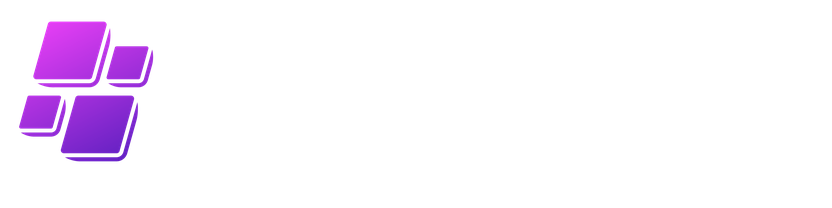
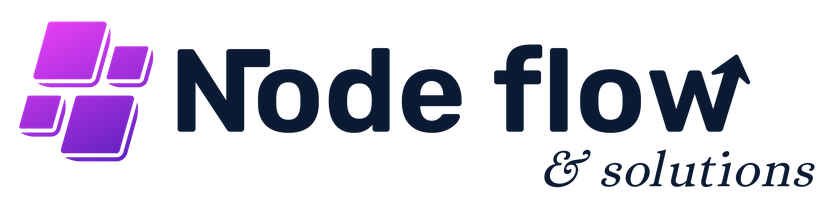
Clients : deux bandeaux défilants identiques (fond blanc / fond bleu marine), tuiles uniformes
Logo Node Flow : texte passé en bleu marine pour être lisible sur tuile blanche.

Claude-Session: https://claude.ai/code/session_01XwajcrZvSTK8Qm7SH7N3dM

Changed region(s): [[0.1875, 0.2308, 0.5625, 0.6635], [0.5938, 0.2019, 0.9062, 0.6635], [0.6562, 0.7212, 1.0, 0.9231]]

diff --git a/index.html b/index.html
@@ -323,12 +323,16 @@ footer{background:#06111f;color:#93a7bd;padding:64px 0 28px}
 /* ---------- CLIENTS MARQUEE ---------- */
 .clients{background:#fff;padding:78px 0;border-block:1px solid var(--line);overflow:hidden}
 .clients .section-head{margin-bottom:40px}
+.clients.navy{background:var(--navy);border-color:var(--navy-2)}
+.clients.navy .section-head h2{color:#fff}
+.clients.navy .section-head p{color:#c3d4e6}
+.clients.navy .eyebrow{background:rgba(87,189,236,.16);color:var(--blue-glow);border-color:rgba(87,189,236,.3)}
+.clients.navy .client{border-color:transparent}
 .marquee{position:relative;-webkit-mask-image:linear-gradient(90deg,transparent,#000 8%,#000 92%,transparent);mask-image:linear-gradient(90deg,transparent,#000 8%,#000 92%,transparent)}
 .marquee-track{display:flex;width:max-content;animation:marquee 38s linear infinite}
 .marquee:hover .marquee-track,.marquee:focus-within .marquee-track{animation-play-state:paused}
 .marquee-group{display:flex;gap:22px;padding-right:22px}
 .client{flex:0 0 auto;width:210px;height:112px;display:flex;align-items:center;justify-content:center;padding:16px 22px;background:#fff;border:1px solid var(--line);border-radius:var(--radius);box-shadow:var(--shadow-sm);transition:transform .3s,box-shadow .3s,border-color .3s}
-.client.dark{background:var(--navy)}
 .client img{max-width:100%;max-height:100%;width:auto;height:auto;object-fit:contain}
 a.client:hover,a.client:focus-visible{transform:translateY(-4px);box-shadow:var(--shadow);border-color:var(--blue-soft)}
 @keyframes marquee{to{transform:translateX(-50%)}}
@@ -340,12 +344,6 @@ a.client:hover,a.client:focus-visible{transform:translateY(-4px);box-shadow:var(
 }
 @media (max-width:720px){.clients{padding:60px 0}.client{width:170px;height:96px}}
 
-/* ---------- CLIENTS BANDE BLEUE (variante fixe) ---------- */
-.clients-band{background:linear-gradient(135deg,var(--blue) 0%,var(--blue-2) 100%);padding:56px 0;color:#fff}
-.clients-band h3{font-size:1.15rem;font-weight:700;text-align:center;margin-bottom:28px;letter-spacing:.02em}
-.clients-band .band-row{display:flex;flex-wrap:wrap;justify-content:center;gap:14px}
-.clients-band .client{width:174px;height:100px;border-color:transparent;box-shadow:0 14px 30px -14px rgba(10,26,51,.45)}
-@media (max-width:720px){.clients-band{padding:44px 0}.clients-band .client{width:calc(50% - 9px);height:92px}}
 
 /* ---------- REVEAL ---------- */
 .reveal{opacity:0;transform:translateY(30px);transition:opacity .7s cubic-bezier(.2,.7,.2,1),transform .7s cubic-bezier(.2,.7,.2,1)}
@@ -570,11 +568,15 @@ height="0" width="0" style="display:none;visibility:hidden"></iframe></noscript>
   <div class="marquee reveal" aria-label="Logos de nos clients"><div class="marquee-track" id="clientTrack"></div></div>
 </section>
 
-<section class="clients-band" id="clients-band">
+<section class="clients navy" id="clients-2">
   <div class="container">
-    <h3 class="reveal">Ils nous font confiance</h3>
-    <div class="band-row reveal" id="clientBand"></div>
+    <div class="section-head reveal">
+      <span class="eyebrow">Références</span>
+      <h2>Ils nous font confiance.</h2>
+      <p>Des professionnels de l'immobilier, du sport et de la rénovation nous confient l'entretien de leurs locaux.</p>
+    </div>
   </div>
+  <div class="marquee reveal" aria-label="Logos de nos clients"><div class="marquee-track" id="clientTrack2"></div></div>
 </section>
 
 <!-- ============ CONTACT ============ -->
@@ -729,7 +731,7 @@ const clients = [
   {n:"Immobilière de la Hardt",img:"assets/clients/immobiliere-de-la-hardt.png",url:"https://www.immo-hardt.com/"},
   {n:"Altura Immobilier",img:"assets/clients/altura-immobilier.png",url:"https://www.alturaimmobilier.fr/"},
   {n:"EG-PRO",img:"assets/clients/eg-pro.png"},
-  {n:"Node Flow & Solutions",img:"assets/clients/node-flow.png",dark:true}
+  {n:"Node Flow & Solutions",img:"assets/clients/node-flow.png"}
 ];
 
 /* ---------- RENDER ---------- */
@@ -765,15 +767,14 @@ document.getElementById('revGrid').innerHTML = reviews.map((r,i)=>`
 
 const clientTile = (c,hidden) => {
   const img = `<img src="${c.img}" alt="${hidden?'':c.n}" loading="lazy" decoding="async">`;
-  const cls = 'client'+(c.dark?' dark':'');
+  const cls = 'client';
   return c.url
     ? `<a class="${cls}" href="${c.url}" target="_blank" rel="noopener" ${hidden?'tabindex="-1" aria-hidden="true"':`aria-label="${c.n} (nouvel onglet)"`}>${img}</a>`
     : `<div class="${cls}" ${hidden?'aria-hidden="true"':''}>${img}</div>`;
 };
 // Chaque groupe répète la liste pour dépasser la largeur d'écran ; le 2e groupe est un clone pour la boucle sans coupure.
 const clientGroup = hidden => `<div class="marquee-group"${hidden?' aria-hidden="true"':''}>${[0,1].map(k=>clients.map(c=>clientTile(c,hidden||k)).join('')).join('')}</div>`;
-document.getElementById('clientBand').innerHTML = clients.map(c=>clientTile(c,false)).join('');
-document.getElementById('clientTrack').innerHTML = clientGroup(false)+clientGroup(true);
+['clientTrack','clientTrack2'].forEach(id=>{ document.getElementById(id).innerHTML = clientGroup(false)+clientGroup(true); });
 
 /* ---------- BEFORE / AFTER SLIDER ---------- */
 document.querySelectorAll('[data-ba]').forEach(ba=>{
